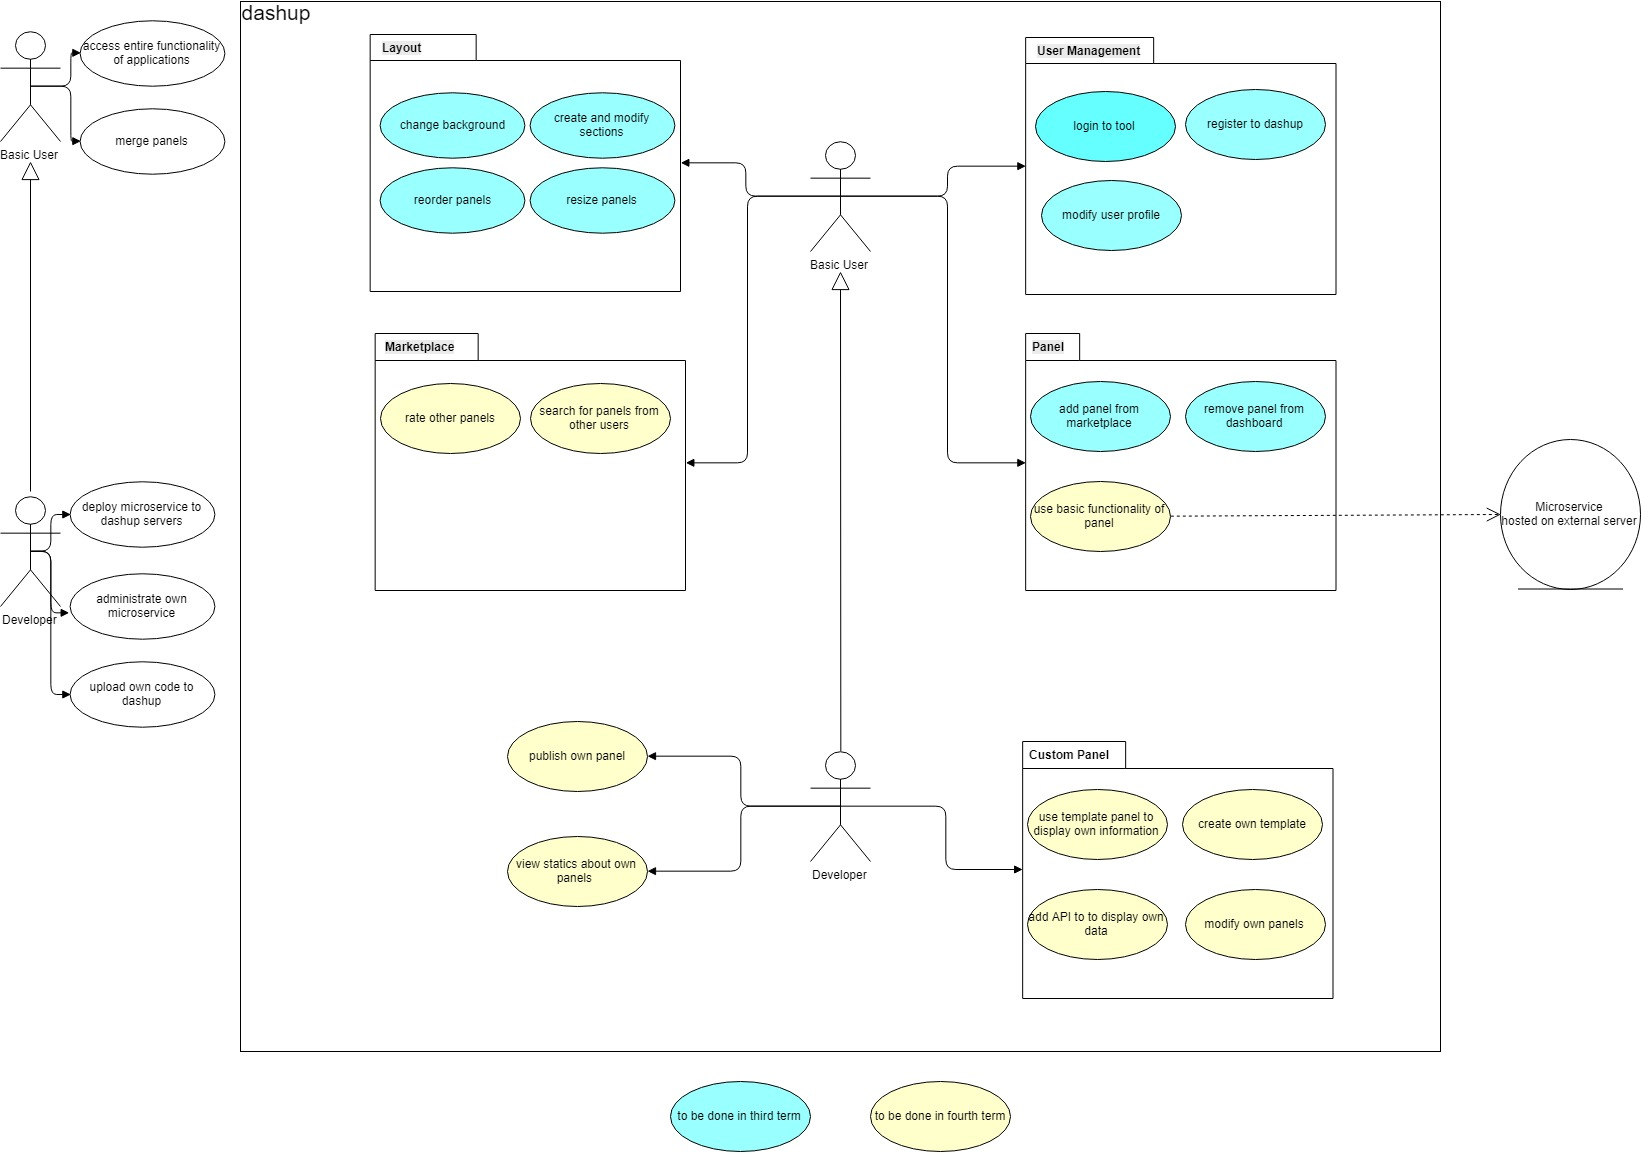
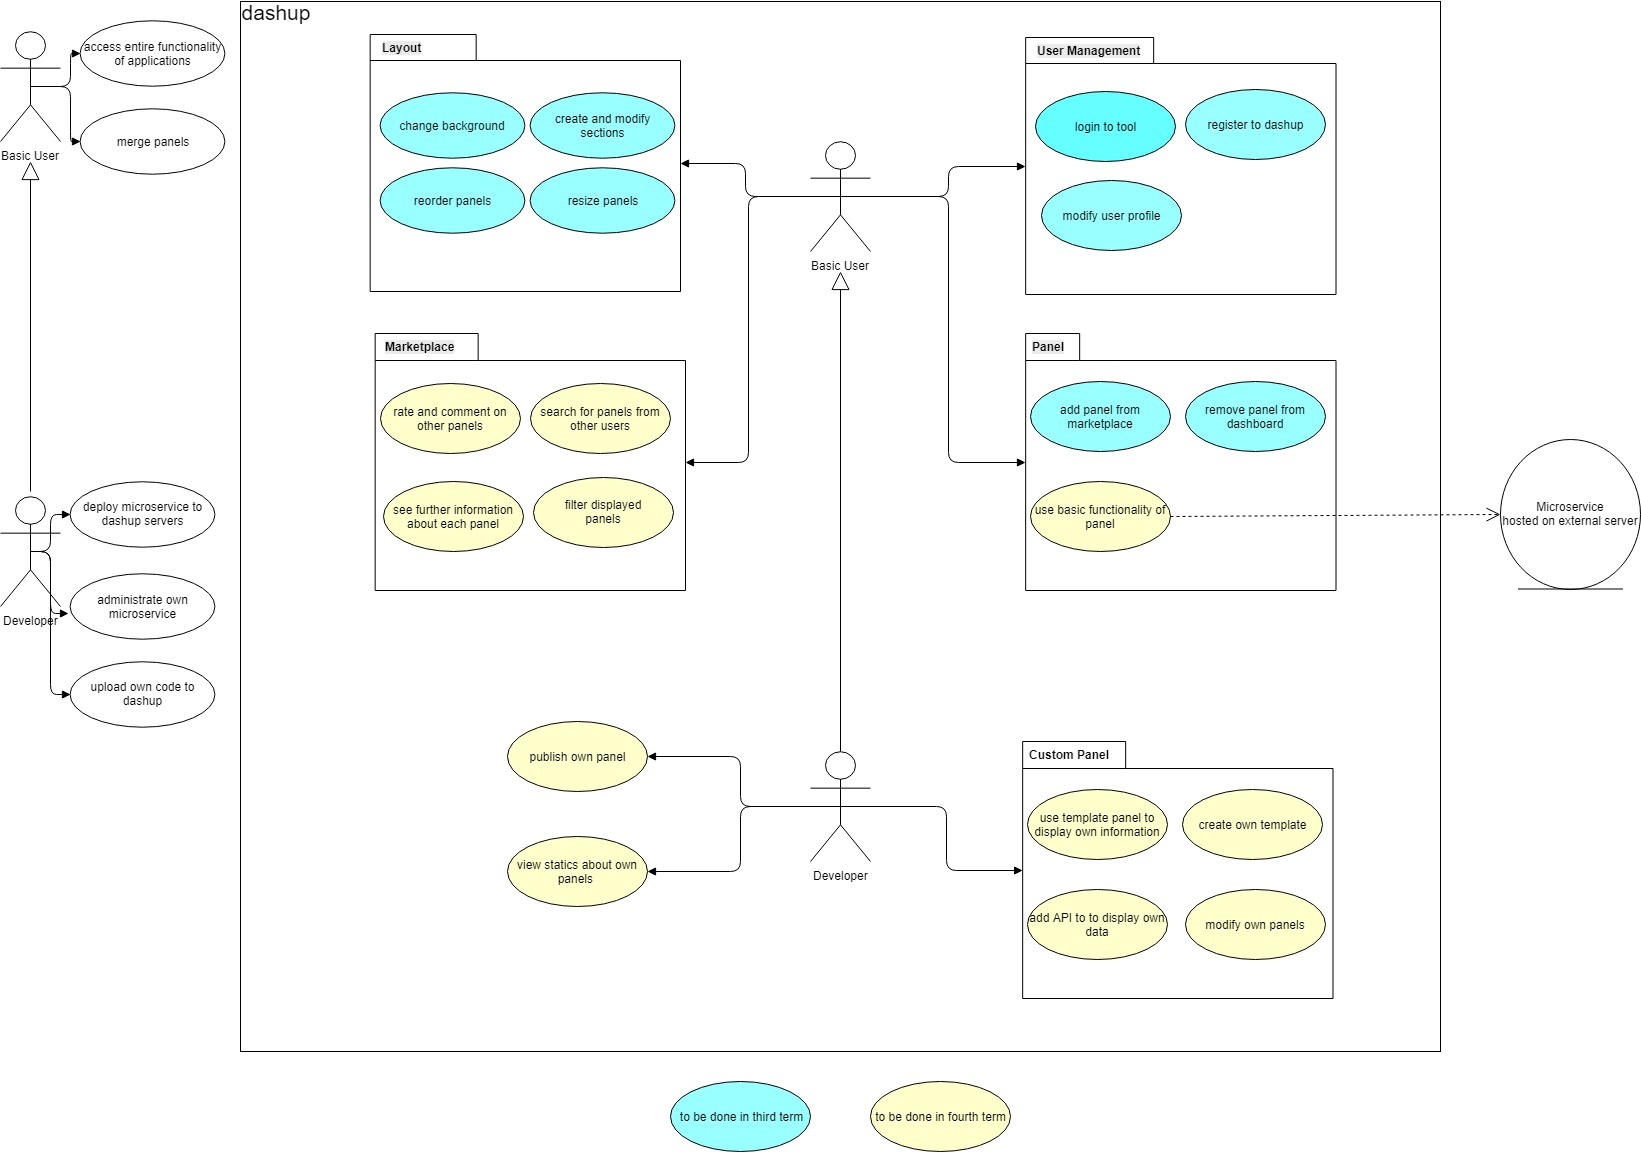
UCS marketplace V1.0

diff --git a/docs/ucs/marketplace/UCS_marketplace.md b/docs/ucs/marketplace/UCS_marketplace.md
@@ -11,28 +11,28 @@ dashup - Use Case Specification Marketplace
 
 <tr>
 
-<td width="154" valign="top" style="width:1.6in;border:solid windowtext .75pt;
+<td valign="top" style="width:1.6in;border:solid windowtext .75pt;
   padding:0in 5.4pt 0in 5.4pt">
 
 **Date**
 
 </td>
 
-<td width="77" valign="top" style="width:.8in;border:solid windowtext .75pt;
+<td valign="top" style="width:.8in;border:solid windowtext .75pt;
   border-left:none;padding:0in 5.4pt 0in 5.4pt">
 
 **Version**
 
 </td>
 
-<td width="250" valign="top" style="width:2.6in;border:solid windowtext .75pt;
+<td valign="top" style="width:2.6in;border:solid windowtext .75pt;
   border-left:none;padding:0in 5.4pt 0in 5.4pt">
 
 **Description**
 
 </td>
 
-<td width="154" valign="top" style="width:1.6in;border:solid windowtext .75pt;
+<td valign="top" style="width:1.6in;border:solid windowtext .75pt;
   border-left:none;padding:0in 5.4pt 0in 5.4pt">
 
 **Author**
@@ -43,14 +43,14 @@ dashup - Use Case Specification Marketplace
 
 <tr>
 
-<td width="154" valign="top" style="width:1.6in;border:solid windowtext .75pt;
+<td valign="top" style="width:1.6in;border:solid windowtext .75pt;
   border-top:none;padding:0in 5.4pt 0in 5.4pt">
 
 28/10/2018
 
 </td>
 
-<td width="77" valign="top" style="width:.8in;border-top:none;border-left:none;
+<td valign="top" style="width:.8in;border-top:none;border-left:none;
   border-bottom:solid windowtext .75pt;border-right:solid windowtext .75pt;
   padding:0in 5.4pt 0in 5.4pt">
 
@@ -58,7 +58,7 @@ dashup - Use Case Specification Marketplace
 
 </td>
 
-<td width="250" valign="top" style="width:2.6in;border-top:none;border-left:none;
+<td valign="top" style="width:2.6in;border-top:none;border-left:none;
   border-bottom:solid windowtext .75pt;border-right:solid windowtext .75pt;
   padding:0in 5.4pt 0in 5.4pt">
 
@@ -66,7 +66,7 @@ Initial UCS with description, activity diagram and screen flow diagram
 
 </td>
 
-<td width="154" valign="top" style="width:1.6in;border-top:none;border-left:none;
+<td valign="top" style="width:1.6in;border-top:none;border-left:none;
   border-bottom:solid windowtext .75pt;border-right:solid windowtext .75pt;
   padding:0in 5.4pt 0in 5.4pt">
 
@@ -85,80 +85,91 @@ Felix Hausberger
 
 # Table of Contents
 
-1.          Use-Case Name
+- [Marketplace](#1-marketplace---brief-description) 
 
-1.1         Brief Description     
+- [Flow of Events](#2-flow-of-events)
 
-2.          Flow of Events
+    - [Basic Flow](#21-basic-flow)   
 
-2.1         Basic Flow     
+    - [Alternative Flows](#22-alternative-flows)
 
-2.2         Alternative Flows     
+- [Special Requirements](#3-special-requirements)
 
-2.2.1       < First Alternative Flow >      
+- [Preconditions](#4-preconditions)
 
-2.2.2       < Second Alternative Flow >     
+    - [Sufficient amount of microservices](#41-sufficient-amount-of-microservices)
 
-3.          Special Requirements
+    - [Sufficient amount of ratings](#42-sufficient-amount-of-ratings)
+    
+    - [Metadata provided for each microservice](#43-metadata-provided-for-each-microservice)
 
-3.1      < First Special Requirement >     
+    - [Logged in to dashup](#44-logged-in-to-dashup)
 
-4.          Preconditions
+- [Postconditions](#5-postconditions) 
 
-4.1      < Precondition One >  
-
-5.          Postconditions  
-
-5.1      < Postcondition One > 
-
-6.          Extension Points
-
-6.1      < Name of Extension Point >     
-
-# 1. Use-Case Name
-
-## 1.1 Brief Description
+- [Extension Points](#6-extension-points)
+   
+# 1. Marketplace - Brief description
 
 The use case _marketplace_ describes the functionality to browse through the internal
-store of microservices within dashup. Here users can rate, comment and add microservices to 
+store of panels for microservices within dashup. Here users can rate, comment and add panels to 
 their dashboard. 
 
-# Flow of Events
+# 2. Flow of Events
 
-## Basic Flow
+## 2.1 Basic Flow
+
+### 2.1.1 Activity Diagram
 
 <img src="./UCS_marketplace.jpg" alt="Use case diagram marketplace" />
 
-## Alternative Flows
+### 2.1.2 Mock-Up
+
+tbd
+
+### 2.1.3 Narrative
+
+tbd
+
+## 2.2 Alternative Flows
 
 n/a
 
-# Special Requirements
+# 3. Special Requirements
 
-In order to add microservices to one's own dashboard through the marketplace,
-a persistent internet connection is needed, to fetch data from the database.
+In order to add panels to one's own dashboard through the marketplace 
+or to browse through the marketplace, a persistent internet connection is needed, 
+to fetch data from the database.
 
-# Preconditions
+# 4. Preconditions
 
-## Sufficient amount of microservices
+## 4.1 Sufficient amount of microservices
 
-In order to take use of the marketplace, a default amount of microservices provided by the 
-community should be available. If there are only built-in dashup microservices availible, the 
-actual sense of a marketplace would get lost.
+To take use of the marketplace, a default amount of panels provided by the 
+community should be available. If there are only the built-in dashup panels for certain microservices
+available, the actual sense of a true _marketplace_ would get lost.
 
-## Sufficient amount of ratings
+## 4.2 Sufficient amount of ratings
 
-In order to get a good overview over the microservice's quality, there should be a certain quantity of
-ratings provided by the community in order to fill the rating menu of a microservice.
+In order to get a good overview over the panel's quality, there should be a certain quantity of
+ratings provided by the community in order to fill the rating menu of a panel with a 
+decent amount of data.
 
-## Logged in to dashup
+## 4.3 Metadata provided for each microservice
+
+To properly display information about a panel for a microservice, metadata such as version, publisher, etc. must be provided.
+Furthermore the publisher must have given a detailed description about the panel to 
+display it on the main menu of a panel in the marketplace.
+
+## 4.4 Logged in to dashup
 
 In order to use the marketplace, the user must be logged in to dashup.
 
-#  Postconditions
+# 5. Postconditions
 
-After the use of the marketplace, the database should by synchronized to the actions the user did. 
+After the use of the marketplace, the database should by synchronized according the actions 
+that the user performed. 
 
-#  Extension Points
+# 6. Extension Points
 
 n/a

diff --git a/docs/srs/SRS.md b/docs/srs/SRS.md
@@ -382,7 +382,7 @@ within the project scope. Furthermore, non-functional requirements are put outsi
 
 <br />
 
-<img src="https://github.com/raphaelmue/dashup/blob/master/docs/UCD.jpg?raw=true" alt="Use Case Diagram" />
+<img src="./UCD.jpg" alt="Use Case Diagram" />
 
 # 3 Specific Requirements
 
@@ -390,19 +390,32 @@ within the project scope. Furthermore, non-functional requirements are put outsi
 
 ### 3.1.1 Main Overview
 
-When opening dashup in your browser, the micro services should display all relevant information graphically or textually 
+When opening dashup in your browser, the microservices should display all relevant information graphically or textually 
 and they are presented as panels. You can easily customize the panel by e.g. changing the background image and reordering 
 or resizing the panel. Besides you can also create and modify sections in order to structure your dashup. 
 
 ### 3.1.2 Marketplace
 
-In the marketplace all available micro services are offered to you. You can select every one of them and configure them
-as you like. You also can search for micro services and rate panels. Some micro services provide a basic functionality 
-so that you can easily interact with ti. 
+In the <a href="../ucs/marketplace/UCS_marketplace.md">marketplace</a> all available panels for microservices are offered to you. You can select every one of them and configure them
+as you like. You also can search for micro services, filter the result set and rate panels. Some micro services provide a basic functionality 
+so that you can easily interact with it. 
 
-As a developer it is possible to publish your own micro services as well as taking a look at the usage statistics of your
-own micro services. Furthermore you can use template panels to display your desired information or create your own template.
+As a developer it is possible to publish your own panels for microservices as well as taking a look at the usage statistics of your
+own microservices. Furthermore you can use template panels to display your desired information or create your own template.
 For gathering the relevant information you can specify a public API. 
+
+### 3.1.3 Account Management
+
+tbd
+
+### 3.1.4 Layouting
+
+tbd
+
+### 3.1.5 Custom Panels
+
+tbd
+
 
 ## 3.2 Usability
 
@@ -533,7 +546,7 @@ If necessary there can be exceptions to this rules, but they have to be well con
 
 # 4 Supporting Information
 **For more information please contact:**
-* <a href="mailto:felix.hausberger@sap.com"> Felix Hausberger </a>
+* <a href="mailto:felix.hausberger@t-online.de"> Felix Hausberger </a>
 * <a href="mailto:sven.leonhard@7lofficial.de"> Sven Leonhard </a>
 * <a href="mailto:raphael.muesseler@sap.com"> Raphael Müßeler </a>
 * <a href="mailto:joshua.schulz@sap.com"> Joshua Schulz </a>
